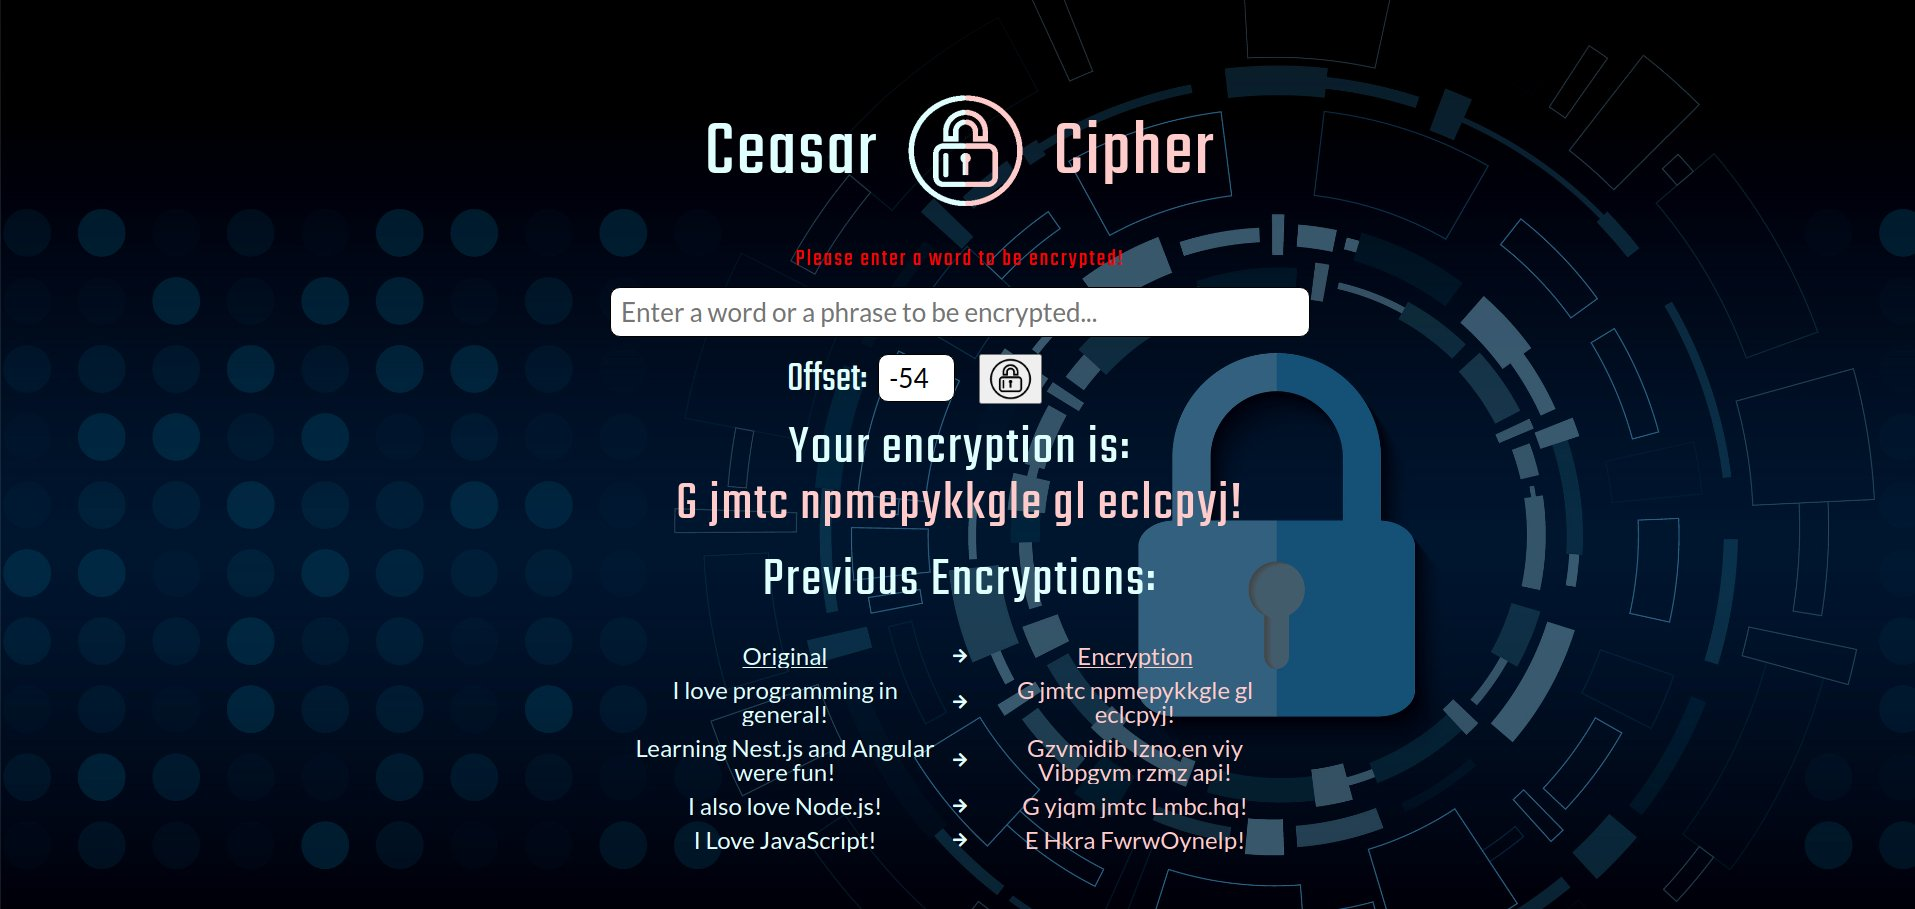
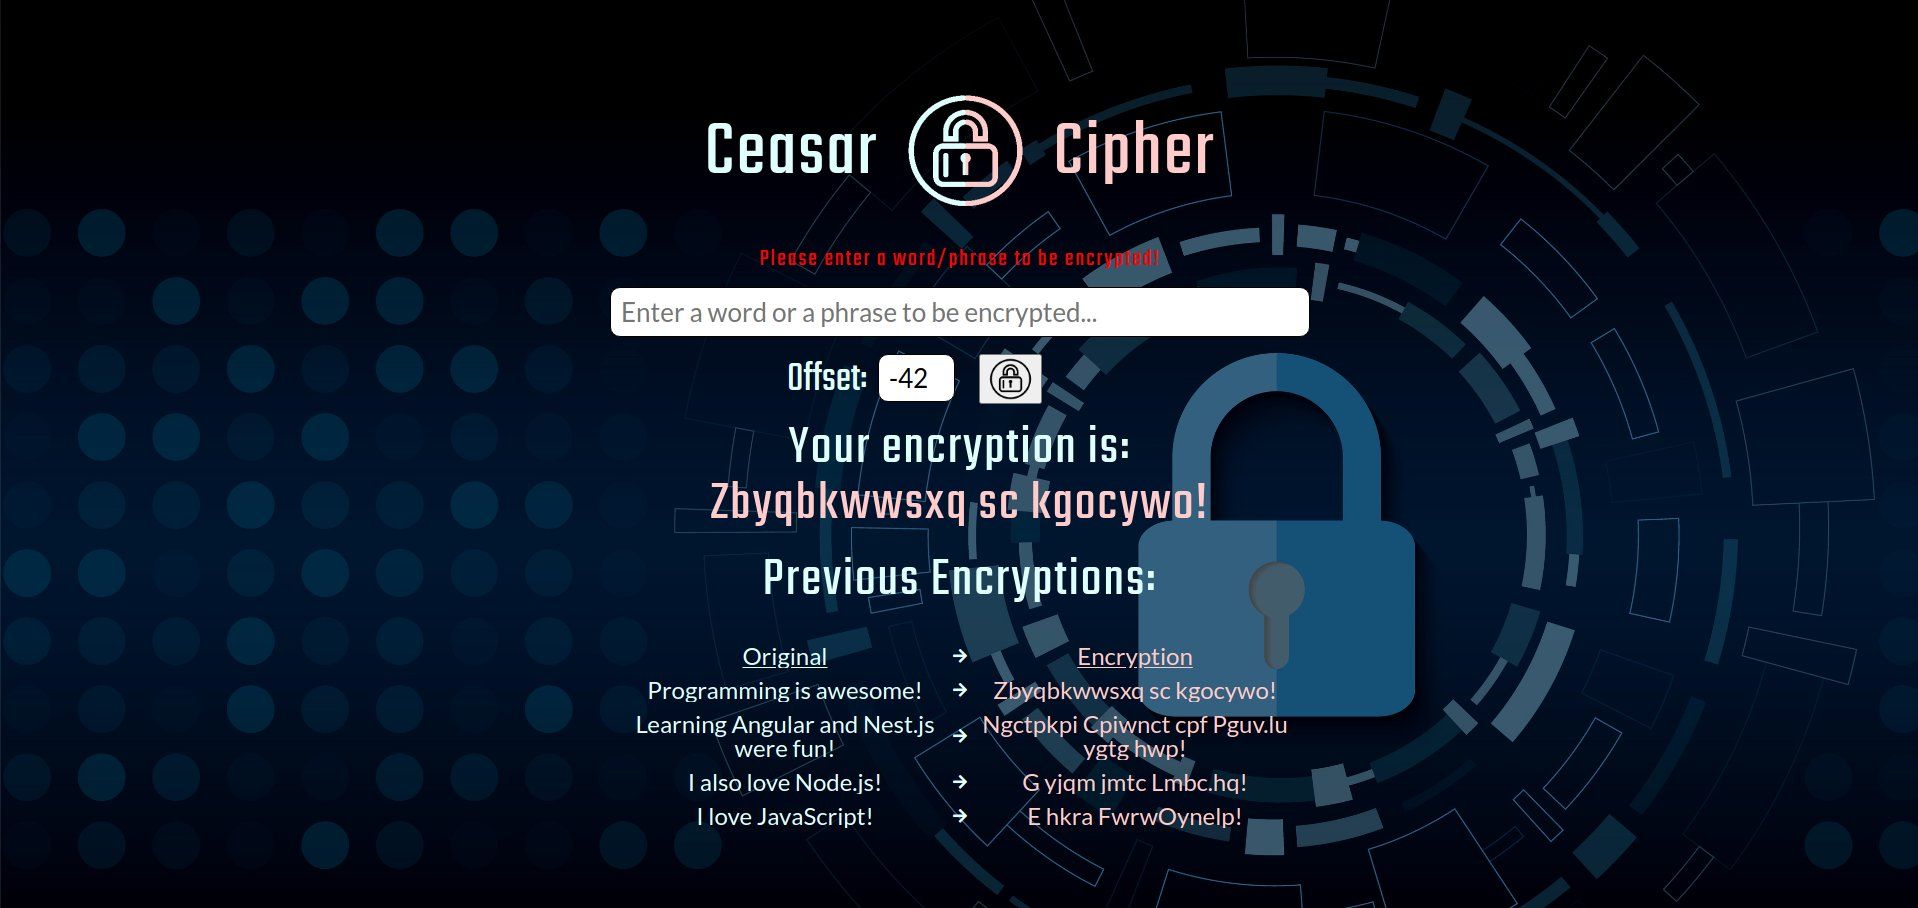
Combine commands and update screenshot

diff --git a/angular-frontend/src/app/encrypt/encrypt.component.html b/angular-frontend/src/app/encrypt/encrypt.component.html
@@ -1,5 +1,5 @@
 <h1 *ngIf="error" class="error title small column">
-    Please enter a word to be encrypted!
+    Please enter a word/phrase to be encrypted!
 </h1>
 
 <form [formGroup]="inputString" (ngSubmit)="onSubmit(inputString.value)" class="cipher-form">
